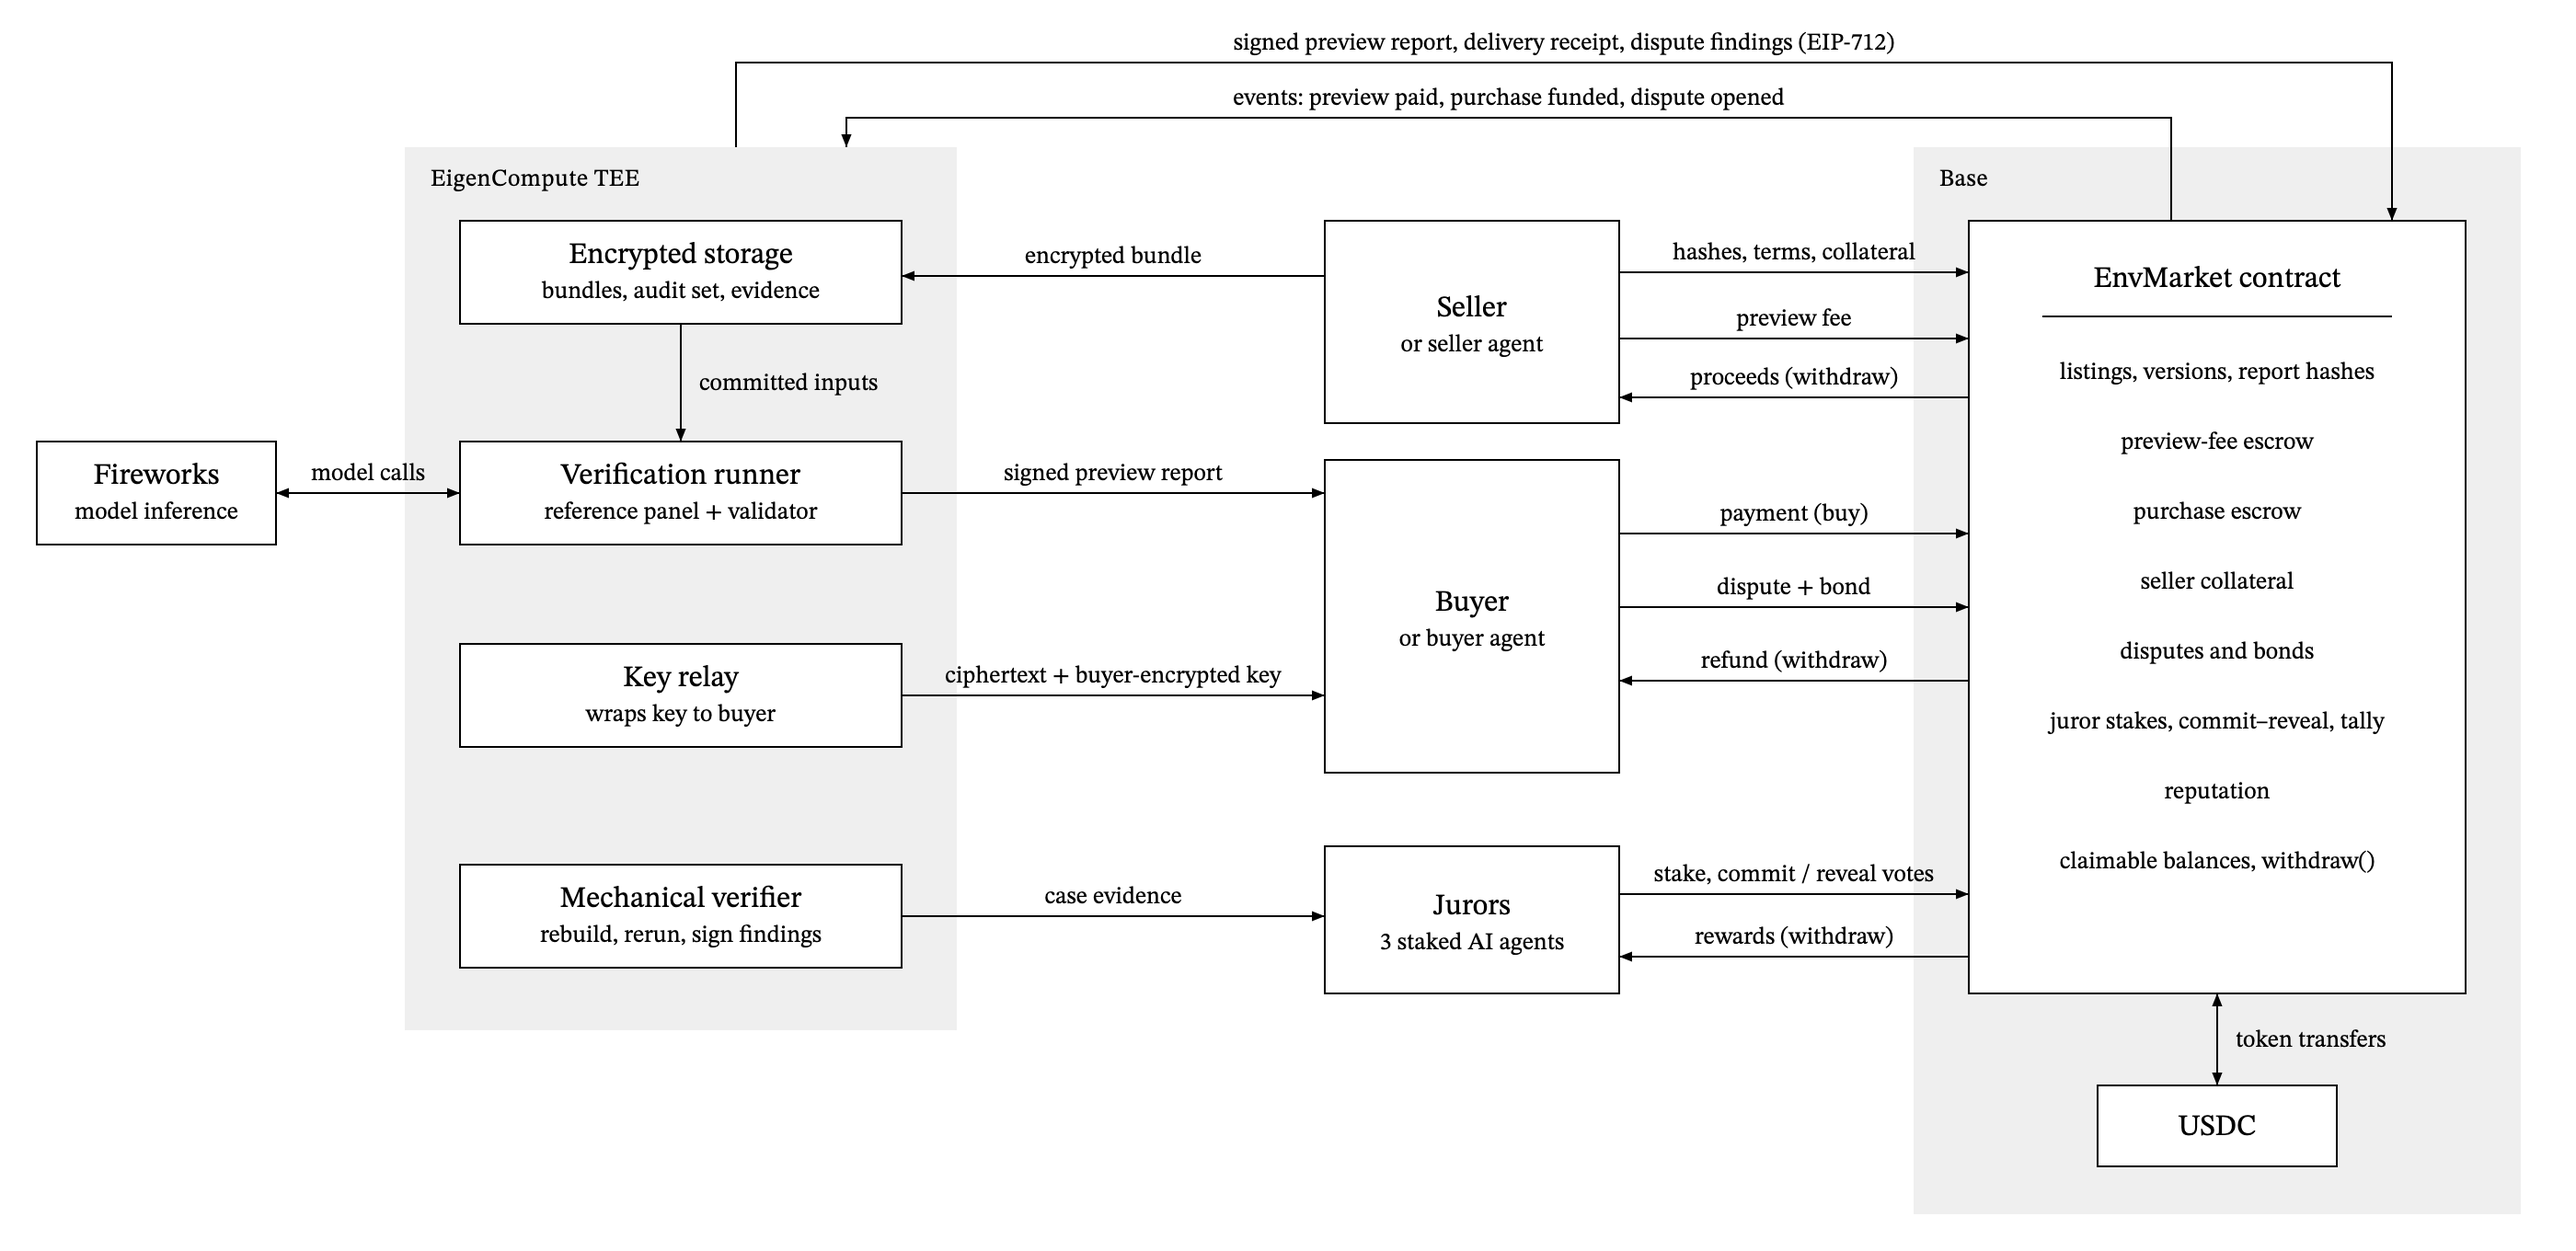
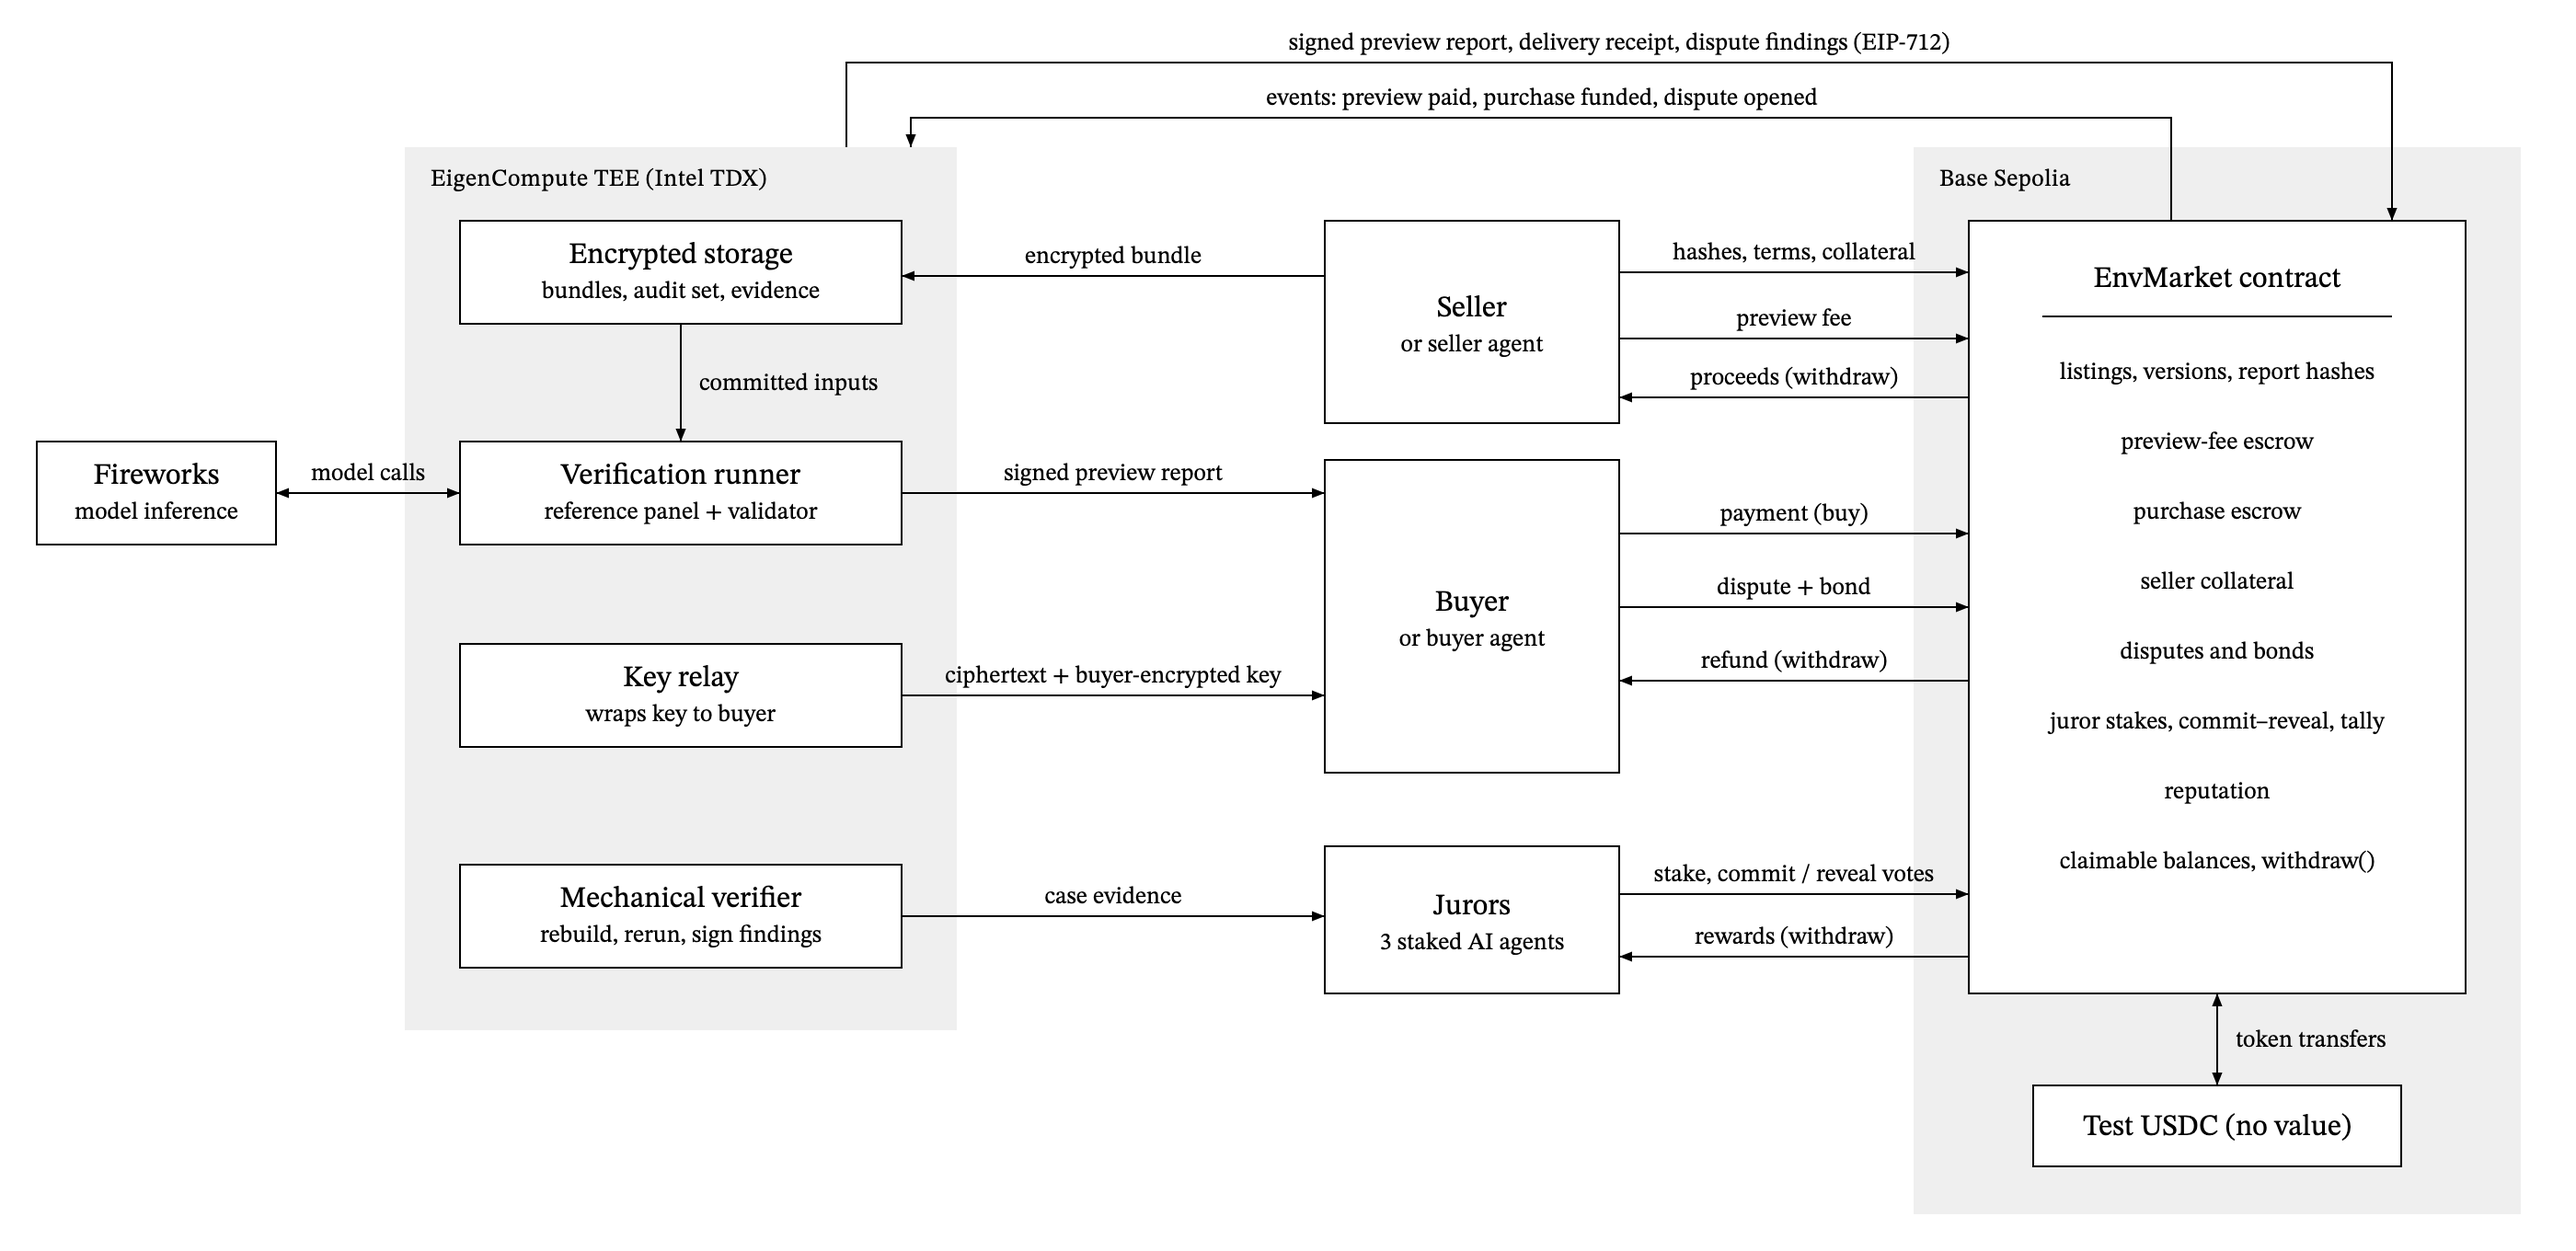
Diagrams and plan: testnet labels, disclose Fireworks inference
Relabel the components diagram for the final all-testnet target (Base
Sepolia, Test USDC (no value), EigenCompute TEE (Intel TDX)) and re-render.
Replace "No external inference service is selected" with the actual
Fireworks setup and its disclosed trust assumption.

Claude-Session: https://claude.ai/code/session_01YUsWauWzmr1tK9SUbgQWUy

diff --git a/docs/diagrams/components.html b/docs/diagrams/components.html
@@ -22,15 +22,15 @@
 
   <!-- groups -->
   <rect class="grp" x="220" y="80" width="300" height="480"/>
-  <text class="g" x="234" y="101">EigenCompute TEE</text>
+  <text class="g" x="234" y="101">EigenCompute TEE (Intel TDX)</text>
   <rect class="grp" x="1040" y="80" width="330" height="580"/>
-  <text class="g" x="1054" y="101">Base</text>
+  <text class="g" x="1054" y="101">Base Sepolia</text>
 
   <!-- TEE <-> chain buses -->
-  <path class="ln" d="M400,80 V34 H1300 V120" marker-end="url(#a)"/>
-  <text class="e" x="850" y="27" text-anchor="middle">signed preview report, delivery receipt, dispute findings (EIP-712)</text>
-  <path class="ln" d="M1180,120 V64 H460 V80" marker-end="url(#a)"/>
-  <text class="e" x="820" y="57" text-anchor="middle">events: preview paid, purchase funded, dispute opened</text>
+  <path class="ln" d="M460,80 V34 H1300 V120" marker-end="url(#a)"/>
+  <text class="e" x="880" y="27" text-anchor="middle">signed preview report, delivery receipt, dispute findings (EIP-712)</text>
+  <path class="ln" d="M1180,120 V64 H495 V80" marker-end="url(#a)"/>
+  <text class="e" x="838" y="57" text-anchor="middle">events: preview paid, purchase funded, dispute opened</text>
 
   <!-- inference provider -->
   <rect class="box" x="20" y="240" width="130" height="56"/>
@@ -117,6 +117,6 @@
 
   <path class="ln" d="M1205,540 V590" marker-start="url(#a)" marker-end="url(#a)"/>
   <text class="e" x="1215" y="569">token transfers</text>
-  <rect class="box" x="1140" y="590" width="130" height="44"/>
-  <text class="b" x="1205" y="617" text-anchor="middle">USDC</text>
+  <rect class="box" x="1105" y="590" width="200" height="44"/>
+  <text class="b" x="1205" y="617" text-anchor="middle">Test USDC (no value)</text>
 </svg>

diff --git a/docs/diagrams/dispute.html b/docs/diagrams/dispute.html
@@ -44,7 +44,7 @@
   <!-- verifier -->
   <rect class="box" x="570" y="55" width="230" height="140"/>
   <text class="b" x="685" y="96" text-anchor="middle">Mechanical verifier</text>
-  <text class="s" x="685" y="115" text-anchor="middle">in the EigenCompute TEE</text>
+  <text class="s" x="685" y="115" text-anchor="middle">in the EigenCompute TEE (Intel TDX)</text>
   <text class="s" x="685" y="145" text-anchor="middle">rebuild, rerun hidden tests,</text>
   <text class="s" x="685" y="163" text-anchor="middle">or rerun the reference panel</text>
   <path class="ln" d="M490,85 H570" marker-end="url(#a)"/>

diff --git a/docs/RL_ENV_MARKET.md b/docs/RL_ENV_MARKET.md
@@ -28,7 +28,7 @@ The structure follows the separation of components and operations in the [Aave v
 
 Arrows show transfers of data or funds, including event-triggered work; the contract does not execute off-chain services. Audit tasks use separate storage objects and keys and are excluded from buyer delivery. Dispute evidence is shared privately with assigned reviewers.
 
-In the current deployment the off-chain services run as one EigenCompute TEE app whose signer holds the runner, relay and verifier roles; reference and validator models are called through Fireworks; the contract and USDC are on Base. Proceeds, refunds and juror rewards are credited on-chain and collected with `withdraw()`. The HTML sources for all diagrams in this document are in [docs/diagrams/](diagrams/).
+In the current deployment the off-chain services run as one EigenCompute TEE app (Intel TDX, EigenCompute `sepolia` environment) whose signer holds the runner, relay and verifier roles; reference and validator models are called through Fireworks; the contract and Test USDC (no value) are on the Base Sepolia testnet. Proceeds, refunds and juror rewards are credited on-chain and collected with `withdraw()`. The HTML sources for all diagrams in this document are in [docs/diagrams/](diagrams/).
 
 | Component | Responsibility |
 |---|---|
@@ -167,7 +167,7 @@ If protected hardware is unavailable, the proposed policy is to queue or decline
 | Attested inference nodes with on-chain coordination | An option to investigate. Tasks leave the original box, so every receiving node, encrypted link, and output policy needs protection. On-chain payment does not prove that nodes discard tasks. |
 | Verifiable inference | May prove that a committed computation produced an output. Hiding inputs from the prover needs an additional privacy mechanism. Feasibility for the named panel is unresolved. |
 
-No external inference service is selected. Using one would require a revised confidentiality design. API promises or computation proofs alone do not prove non-retention.
+The implementation uses Fireworks for the reference panel, validator, and jurors. The TEE calls it for previews and the juror processes call it for votes. These model calls leave the TEE, so the inference provider sees task text during previews. This is a disclosed trust assumption; production would move inference inside the attested boundary. API promises or computation proofs alone do not prove non-retention.
 
 Buyer-model previews remain a stretch goal until isolation covers seller code, operator access, model files and memory, persistent storage, logs, and exports. Separate execution identities and storage are needed. Only the bounded report may leave, with no updated weights, unrestricted transcripts, or filesystem exports.
 
